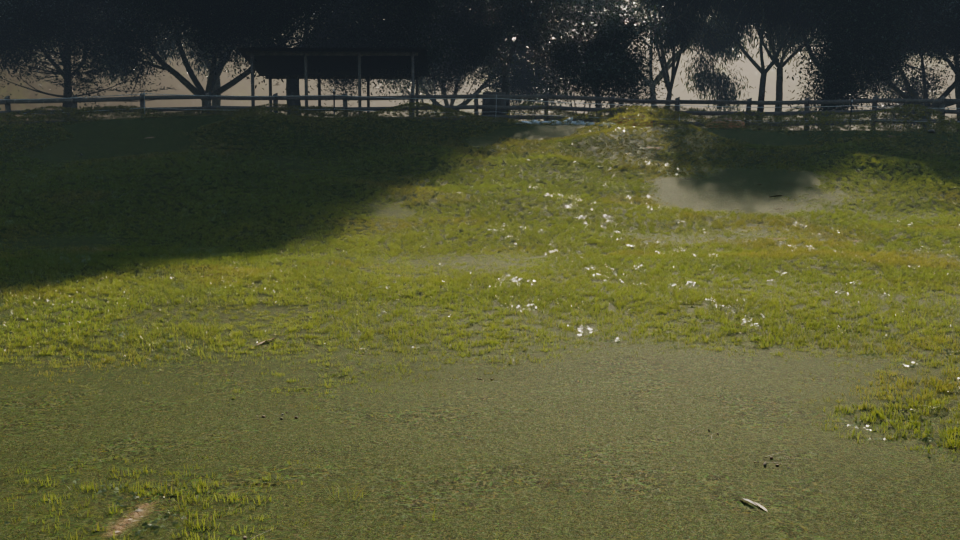
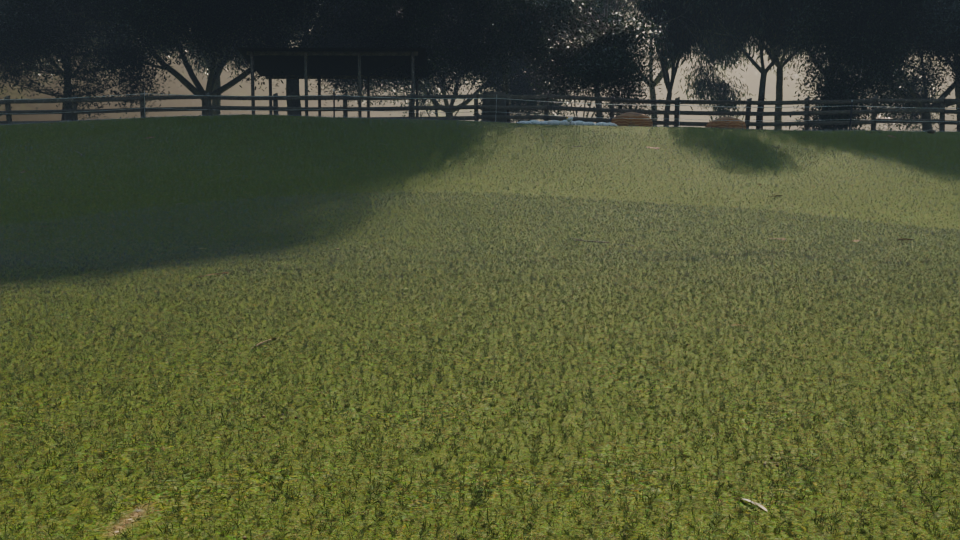
Render env: photoscanned lawn (Poly Haven grass_bermuda_01), even green, no wind, clouds or dry blobs
The lawn is now about 380k instances of the Poly Haven grass_bermuda_01 scanned
alpha-card clumps (small, medium and seedling), scattered densely on a jittered grid with
random rotation and scale, kept 5 to 8 cm tall, density easing off with distance
(about 420 per m2 near the action and the cameras, 140 by 20 m, sparse to 30 m), over the
even photo lawn texture. Dry patches, mower-stripe pattern, cloud-shadow plane and all
wind sway are removed. The procedural clumps remain as the fallback when the scan is not
cached; fetch_env.py downloads the scan. Fence, trees, shelter, cockatoo, terrain, flat
zones, clear_zones and set_sun unchanged.

Claude-Session: https://claude.ai/code/session_01Y9T2MA1da8uJdcpXwDwLHT

diff --git a/render/env.py b/render/env.py
@@ -69,8 +69,10 @@ def _hero_sdf(x, y):
 
 
 # Wind (radians of instance tilt, noise scale 1/m, drift m/s). Animated through the scene time.
-WIND = dict(grass_amp=0.025, grass_scale=0.22, leaf_amp=0.035, leaf_scale=0.08, speed=1.6, gust_scale=0.03)
-MOW_STRIPE = dict(width=0.95, angle_deg=12.0, lean=0.35)   # mower stripes: band width (m), direction, blade lean
+WIND = dict(grass_amp=0.0, grass_scale=0.22, leaf_amp=0.0, leaf_scale=0.08, speed=1.6, gust_scale=0.03)  # still
+MOW_STRIPE = dict(width=0.95, angle_deg=12.0, lean=0.0)    # no visible mower pattern
+SCAN_GRASS = os.path.join(CACHE, "models", "grass_bermuda_01", "grass_bermuda_01_1k.blend")   # Poly Haven scan
+SCAN_DENSITY = dict(near=420.0, r_near=11.0, mid=140.0, r_full=20.0, r_max=30.0)   # scanned clumps per m2   # mower stripes: band width (m), direction, blade lean
 
 # ---------------------------------------------------------------------------------------------------------------
 # Layout (world metres), after Harry's yard photos: a mown lawn rising gently to a hump and a fence line on the
@@ -912,11 +914,11 @@ def _mat_ground(hdri_img):
     g_c, g_r, g_n, _ = _pbr(nt, "dry_ground_rocks", _uvvec(nt, uv, TEX_SIZE["dry_ground_rocks"], 0.3),
                            ((0.20, 0.15, 0.10), 0.9))
     sw = nt.mix(nt.ss(brk, 0.35, 0.65), sw_c, sw2_c)
-    sw = nt.hsv(sw, nt.mixf(macro, 0.485, 0.505), 0.95, nt.mixf(macro, 0.8, 1.0))      # mottled lawn tone
+    sw = nt.hsv(sw, nt.mixf(macro, 0.495, 0.505), 0.95, nt.mixf(macro, 0.84, 0.94))    # even lawn tone
     dryc = nt.mix(nt.ss(brk2, 0.3, 0.8), (0.20, 0.17, 0.08), (0.15, 0.11, 0.06))
     drym = nt.ss(nt.math("ADD", dry_a, nt.math("MULTIPLY", nt.math("SUBTRACT", brk2, 0.5), 0.5)), 0.3, 0.7)
-    col = nt.mix(nt.math("MULTIPLY", drym, 0.85), sw, nt.mix(0.6, sw, dryc))
-    col = nt.mix(stripe_a, col, nt.mix(1.0, col, (1.14, 1.12, 1.06), "MULTIPLY"))
+    col = nt.mix(nt.math("MULTIPLY", drym, 0.0), sw, nt.mix(0.6, sw, dryc))           # even lawn: no dry blobs
+    col = nt.mix(nt.math("MULTIPLY", stripe_a, 0.0), col, col)
     edge = nt.math("MULTIPLY", nt.math("SUBTRACT", brk, 0.5), 0.6)
     soil_m = nt.ss(nt.math("ADD", soil_a, edge), 0.4, 0.65)
     col = nt.mix(soil_m, col, nt.hsv(g_c, 0.5, 0.8, 0.8))
@@ -1417,7 +1419,106 @@ def _choose_instances(X, Y, d, F, rng, index, preset):
     return inst
 
 
+def _mat_scan_grass():
+    """Poly Haven grass_bermuda_01 scan: photo colour, alpha cut-out, normal and roughness maps; matte, a little
+    translucent; colour evened out to a natural lawn green."""
+    m, nt = _new_mat("env:scan_grass")
+    d = os.path.dirname(SCAN_GRASS)
+    tx = nt.node("ShaderNodeTexCoord").outputs["UV"]
+
+    def img(name, cs):
+        pth = os.path.join(d, "textures", name)
+        if not os.path.exists(pth):
+            return None
+        im = bpy.data.images.load(pth, check_existing=True)
+        im.colorspace_settings.name = cs
+        t = nt.node("ShaderNodeTexImage", image=im, interpolation="Linear")
+        nt.set(t.inputs["Vector"], tx)
+        return t
+    dif = img("grass_bermuda_01_diff_1k.jpg", "sRGB")
+    alp = img("grass_bermuda_01_alpha_1k.png", "Non-Color")
+    nor = img("grass_bermuda_01_nor_gl_1k.exr", "Non-Color")
+    rou = img("grass_bermuda_01_rough_1k.exr", "Non-Color")
+    oi = nt.node("ShaderNodeObjectInfo")
+    col = dif.outputs["Color"] if dif else (0.08, 0.15, 0.04)
+    col = nt.hsv(col, nt.mixf(oi.outputs["Random"], 0.497, 0.505), 1.0, nt.mixf(oi.outputs["Random"], 0.9, 1.06))
+    rough = nt.math("MAXIMUM", rou.outputs["Color"], 0.6) if rou else 0.65
+    bsdf = nt.principled(col, rough, _nmap(nt, nor.outputs["Color"] if nor else None, 1.0), spec=0.25)
+    tr = nt.node("ShaderNodeBsdfTranslucent")
+    nt.set(tr.inputs["Color"], col)
+    sh = nt.mixsh(0.25, bsdf, tr.outputs[0])
+    if alp is not None:
+        tp = nt.node("ShaderNodeBsdfTransparent")
+        a = nt.ss(alp.outputs["Color"], 0.45, 0.55)
+        sh = nt.mixsh(a, tp.outputs[0], sh)
+    nt.output(_hazed(nt, sh))
+    for k, v in (("surface_render_method", "DITHERED"), ("use_backface_culling", False),
+                 ("use_transparent_shadow", True)):
+        try:
+            setattr(m, k, v)
+        except Exception:
+            pass
+    return m
+
+
+def _load_scan_grass(src_coll):
+    """Link the scanned lawn clumps (small / medium / seedling cards) into src_coll as instance sources."""
+    if not os.path.exists(SCAN_GRASS):
+        return []
+    with bpy.data.libraries.load(SCAN_GRASS) as (src, dst):
+        dst.objects = [n for n in src.objects if n.startswith("grass_bermuda_01_") and "geometry" not in n
+                       and "single" not in n]
+    mat = _mat_scan_grass()
+    objs = []
+    for i, o in enumerate(sorted([o for o in dst.objects if o and o.type == "MESH"], key=lambda o: o.name)):
+        o.name = "env:gsrc_%02d_scan_%s" % (i, o.name.replace("grass_bermuda_01_", ""))
+        o.location = (0, 0, 0)
+        o.data.materials.clear()
+        o.data.materials.append(mat)
+        src_coll.objects.link(o)
+        objs.append(o)
+    return objs
+
+
+def _build_scan_grass(coll, src_coll, axes, Zgrid, objs, clear_zones=()):
+    """Dense, even lawn of scanned clumps: jittered grid, density easing off with distance from the action and
+    the cameras' foreground, random rotation / scale, no wind."""
+    rng = np.random.default_rng(SEED + 17)
+    sd = SCAN_DENSITY
+    cx, cy = GRASS_CENTER[0], GRASS_CENTER[1] - 3.0
+    Ps = []
+    for r0, r1, dens in ((0.0, sd["r_near"], sd["near"]), (sd["r_near"], sd["r_full"], sd["mid"]),
+                         (sd["r_full"], sd["r_max"], sd["mid"] * 0.45)):
+        cell = 1.0 / math.sqrt(dens)
+        g = np.arange(-r1, r1, cell)
+        X, Y = np.meshgrid(g + cx, g + cy, indexing="ij")
+        X = X.ravel() + rng.random(X.size) * cell
+        Y = Y.ravel() + rng.random(Y.size) * cell
+        d = np.hypot(X - cx, Y - cy)
+        k = (d >= r0) & (d < r1)
+        Ps.append(np.stack([X[k], Y[k]], 1))
+    P = np.concatenate(Ps)
+    F = _fields(P[:, 0], P[:, 1])
+    keep = rng.random(len(P)) < F["dens"]
+    for (zx, zy, zr) in clear_zones:
+        keep &= np.hypot(P[:, 0] - zx, P[:, 1] - zy) > zr
+    P = P[keep]
+    N = len(P)
+    Z = _interp_grid(axes, Zgrid, P[:, 0], P[:, 1]) - 0.004
+    inst = rng.integers(0, len(objs), N).astype(np.int32)
+    s = rng.uniform(0.75, 1.1, N)
+    sz = s * rng.uniform(0.62, 0.8, N)                 # mown: clumps kept 5 to 8 cm tall
+    rot = np.stack([rng.normal(0, 0.06, N), rng.normal(0, 0.06, N), rng.random(N) * 2 * math.pi], 1)
+    ob = _points_object("env:grass", coll, np.column_stack([P, Z]), inst, rot, np.stack([s, s, sz], 1), {})
+    ob.modifiers.new("scatter", "NODES").node_group = _instance_nodes("env:grass_scatter", src_coll)
+    tris = np.array([sum(len(pp.vertices) - 2 for pp in o.data.polygons) for o in objs])
+    return ob, dict(instances=int(N), triangles=int(tris[inst].sum()), sources=len(objs), scanned=True)
+
+
 def _build_grass(coll, src_coll, terrain_axes, Zgrid, preset, mats, clear_zones=()):
+    scan = _load_scan_grass(src_coll)
+    if scan:
+        return _build_scan_grass(coll, src_coll, terrain_axes, Zgrid, scan, clear_zones)
     objs, index, tris = _build_sources(src_coll, "gsrc", _VARIANTS, _make_clump, mats, preset["blade_mult"])
     X, Y, d, F, rng = _scatter_points(preset, clear_zones)
     inst = _choose_instances(X, Y, d, F, rng, index, preset)
@@ -2637,7 +2738,6 @@ def build_env(scene, quality=None, clear_zones=(), board_clear=True, board_half=
     _exclude(scene, src)
     world, hdri_img = _build_world(scene)
     sun = _build_sun(env)
-    _build_cloud_shadows(env, scene)
     mats = dict(ground=_mat_ground(hdri_img), grass=_mat_grass(), gum_bark=_mat_gum_bark(),
                 gum_leaf=_mat_gum_canopy(), leaf_litter=_mat_leaf_litter(), bark_strip=_mat_bark_strip(),
                 deadwood=_mat_deadwood(), rock=_mat_rock(), manure=_mat_manure(), timber=_mat_timber(),

diff --git a/render/assets/fetch_env.py b/render/assets/fetch_env.py
@@ -103,6 +103,25 @@ def _fetch_ambientcg(asset, res, members, force):
         return False
 
 
+MODELS = ["grass_bermuda_01"]   # Poly Haven scanned lawn grass clumps (1K blend + its textures)
+
+
+def _fetch_model(mid, force):
+    d = os.path.join(CACHE, "models", mid)
+    os.makedirs(os.path.join(d, "textures"), exist_ok=True)
+    ok = True
+    try:
+        with _get("https://api.polyhaven.com/files/%s" % mid, 30) as r:
+            b = json.load(r)["blend"]["1k"]["blend"]
+        ok &= _download(b["url"], os.path.join(d, "%s_1k.blend" % mid), force)
+        for rel, v in b.get("include", {}).items():
+            ok &= _download(v["url"], os.path.join(d, rel), force)
+    except Exception as e:
+        print("  FAIL  model %s: %s" % (mid, e))
+        ok = False
+    return ok
+
+
 def fetch(hdri_res="4k", tex_res="2k", force=False):
     ok = True
     os.makedirs(os.path.join(CACHE, "hdri"), exist_ok=True)
@@ -126,6 +145,9 @@ def fetch(hdri_res="4k", tex_res="2k", force=False):
                        % (tex_res, tex, tex, suffix, tex_res))
             ok &= _download(url, texture_path(tex, suffix, tex_res), force)
 
+    for mid in MODELS:
+        print("model %s (Poly Haven, 1k blend)" % mid)
+        ok &= _fetch_model(mid, force)
     for asset, (_size, members) in AMBIENTCG.items():
         print("texture %s (ambientCG, %s jpg)" % (asset, tex_res))
         os.makedirs(os.path.join(CACHE, "tex", asset), exist_ok=True)

diff --git a/render/assets/CREDITS.md b/render/assets/CREDITS.md
@@ -8,7 +8,8 @@ a physical sky instead of the HDRI.
 | Use in the scene | Asset | Source / URL | Author | Licence |
 |---|---|---|---|---|
 | Sky, ambient light, distant trees (4K .hdr; sun lamp matched to its sun: elevation 52 deg, 5.1 W/m2 measured) | Pretoria Gardens | https://polyhaven.com/a/pretoria_gardens (file: https://dl.polyhaven.org/file/ph-assets/HDRIs/hdr/4k/pretoria_gardens_4k.hdr) | Dimitrios Savva (photography), Jarod Guest (processing) | CC0 |
-| Mown lawn sward under the 3D grass blades | Grass 004 (2K JPG: Color, NormalGL, Roughness) | https://ambientcg.com/view?id=Grass004 (file: https://ambientcg.com/get?file=Grass004_2K-JPG.zip) | ambientCG (Lennart Demes) | CC0 |
+| Lawn grass: photoscanned clumps scattered as the mown lawn | Grass Bermuda 01 (1K blend: alpha cards, diff, alpha, nor_gl, rough) | https://polyhaven.com/a/grass_bermuda_01 | Rico Cilliers | CC0 |
+| Mown lawn sward under the grass clumps | Grass 004 (2K JPG: Color, NormalGL, Roughness) | https://ambientcg.com/view?id=Grass004 (file: https://ambientcg.com/get?file=Grass004_2K-JPG.zip) | ambientCG (Lennart Demes) | CC0 |
 | Small bare soil spots in the lawn | Dry Ground Rocks (2K JPG: diff, nor_gl, arm) | https://polyhaven.com/a/dry_ground_rocks | Rob Tuytel | CC0 |
 | Tree trunks and branches (relief, re-toned), dead trees, stump, sticks | Bark Bluegum (2K JPG) | https://polyhaven.com/a/bark_bluegum | Dimitrios Savva | CC0 |
 | Weathered post-and-rail fence, gate posts, shelter posts | Rough Wood (2K JPG) | https://polyhaven.com/a/rough_wood | Rob Tuytel | CC0 |
